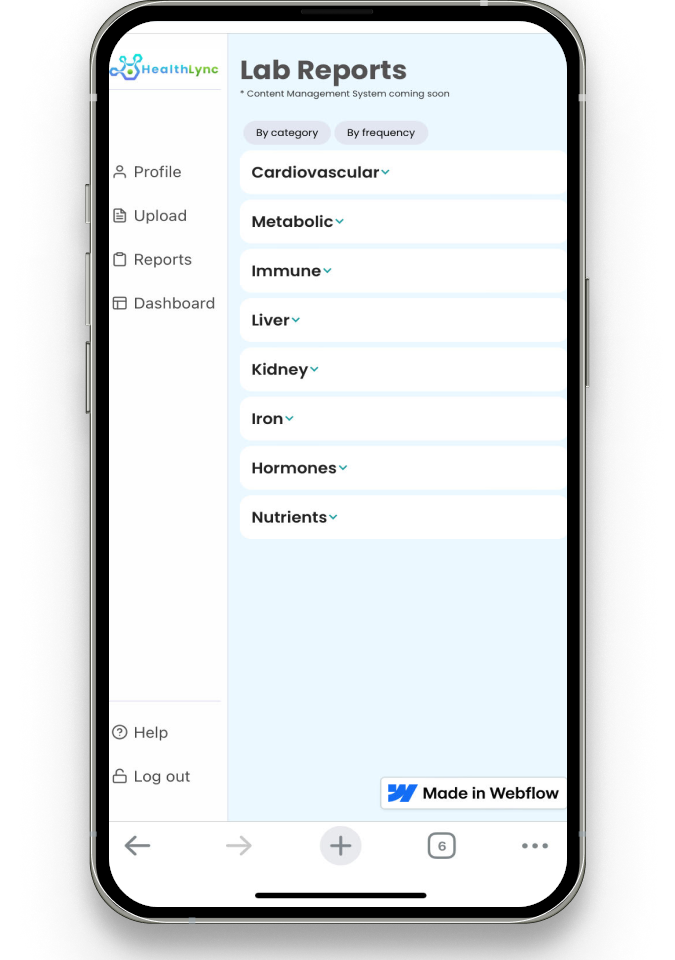
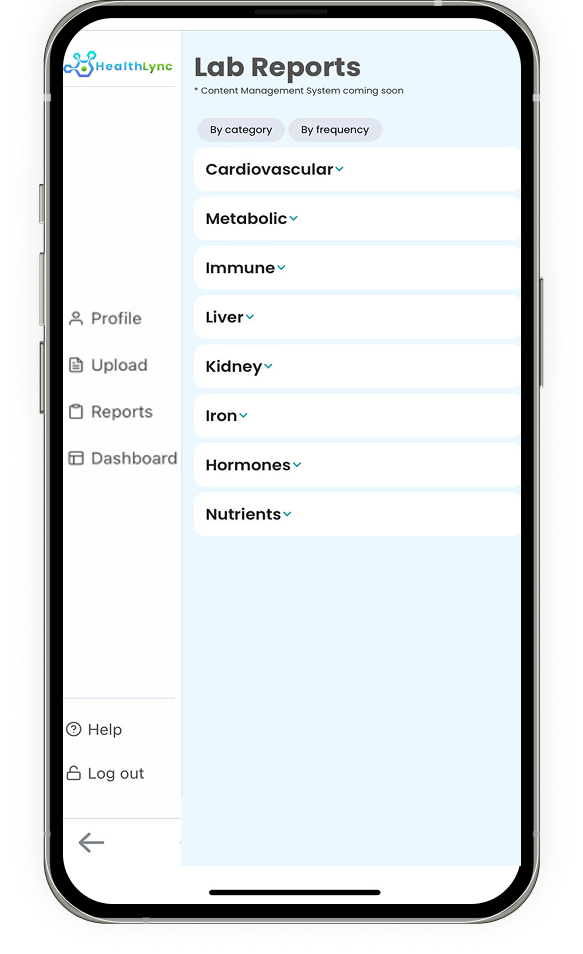
Mobile Figma updates

diff --git a/public/css/index-styles.css b/public/css/index-styles.css
@@ -71,7 +71,7 @@
 .mobile {
   margin-top: 3.5rem;
   margin-bottom: auto;
-  max-width: 45% !important;
+  max-width: 35% !important;
   height: auto;
   opacity: 0;
   transform: translateX(100px);
@@ -1062,7 +1062,7 @@
   }
   .mobile {
     order: 2 !important;
-    max-width: 38% !important;
+    max-width: 34% !important;
     height: auto !important;
     margin-top: 2rem !important;
     flex-shrink: 0 !important;
@@ -1400,7 +1400,7 @@
     line-height: 1.25 !important;
   }
   .mobile {
-    max-width: 85% !important;
+    max-width: 80% !important;
     margin: 0 !important;
   }
   .mobile-only {
@@ -1584,7 +1584,7 @@
     line-height: 1.2 !important;
   }
   .mobile {
-    max-width: clamp(200px, 80%, 280px) !important;
+    max-width: clamp(200px, 75%, 280px) !important;
   }
   .mobile-only {
     width: 85%;
